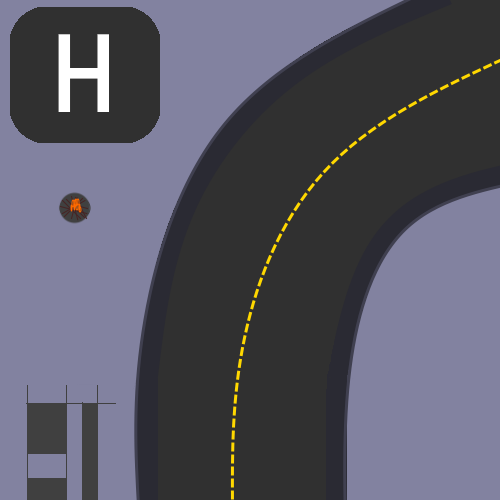
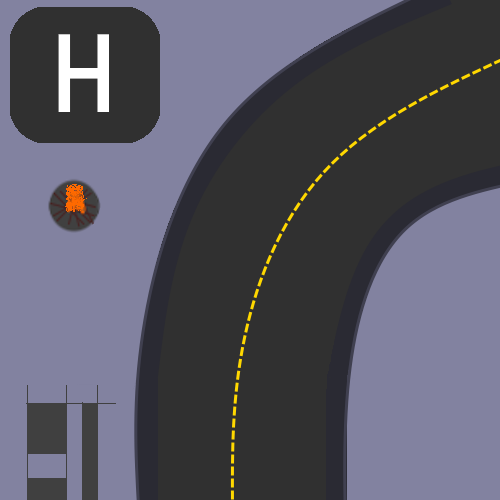
Added Player Damage and GameObject which damages player

Changed region(s): [[0.09, 0.36, 0.21, 0.48]]

diff --git a/Game.cpp b/Game.cpp
@@ -6,6 +6,7 @@
 #include "Player.hpp"
 #include "Level.hpp"
 
+int HP = 100;
 int Level::LevelIDCounter = 0;
 
 // if level 0, then
@@ -36,7 +37,7 @@ void Game::PauseMenu(SDL_Renderer* renderer) {
         return;  // Exit the function if font fails to load
     }
     else {
-        std::cout << "Font loaded successfully!" << std::endl;
+        std::cout << "Game Paused!" << std::endl;
     }
 
     bool pauseloop = true;
@@ -93,7 +94,7 @@ void Game::UserInput(bool& running, const Uint8* keyboardState) {
 
     CollisionChecker(LevelNum, playerY, playerX, playerWidth, playerHeight, blockBottom, blockTop, blockRight, blockLeft);
     
-
+    // for instance, it would be level[i]->LEFT_BOUNDARY
     if (keyboardState[SDL_SCANCODE_LEFT]) {
         if (!blockLeft && playerX > LEFT_BOUNDARY) { 
             PlayerMove(-1, 0); // Move left
@@ -123,20 +124,62 @@ void Game::UserInput(bool& running, const Uint8* keyboardState) {
     }
 }
 
-void Game::ChangeLevel(SDL_Renderer* renderer, int& LevelID) {
-    const int ObjectX = 10, ObjectY = 150, ObjectWidth = 100, ObjectHeight = 100;
-        if (Players[0]->GetY() == -90) {
-            if (!MakeLevel("LevelTwo", "Images/Grass.png", LevelID)) {
-                std::cerr << "Couldn't create Level one!" << std::endl;
-                return;
+// this function will check if the player is being damaged, as well as other effects
+void Game::CheckPlayerStatus(int& LevelID) {
+    static int OldTime = 0;  
+    int cooldown = 500;
+    int NewTime = SDL_GetTicks();
+
+    int PlayerX = Players[0]->GetX(), PlayerY = Players[0]->GetY();
+    int PlayerWidth = Players[0]->GetPlayerWidth(), PlayerHeight = Players[0]->GetPlayerHeight();
+
+    if (NewTime - OldTime > cooldown) {
+        for (int i = 0; i < Levels[LevelID]->GetGameObjectsCount(); ++i) {
+            bool objectcandamage = Levels[LevelID]->GetGameObject(i)->GetCanDamage();
+
+            int ObjectX = Levels[LevelID]->GetGameObject(i)->GetX();
+            int ObjectY = Levels[LevelID]->GetGameObject(i)->GetY();
+            int ObjectWidth = Levels[LevelID]->GetGameObject(i)->GetGameObjectWidth();
+
+            if (objectcandamage &&
+                PlayerY + PlayerHeight - 60 == ObjectY &&
+                PlayerX + PlayerWidth >= ObjectX &&
+                PlayerX <= ObjectX + ObjectWidth) {
+
+                Players[0]->DamagePlayer(10);
+                OldTime = NewTime;  
+                break;  
             }
-            if (!Levels[LevelID]->MakeGameObject(ObjectX, ObjectY, ObjectWidth, ObjectHeight, false)) {
-                std::cerr << "Couldn't create Game Object!" << std::endl;
-                return;
-            }
-            PlayerMove(0, 500); // resets spawn point to bottom of map
+        }
+    }
+
+    if (Players[0]->GetHP() <= 0) {
+        std::cout << "GAME OVER!" << std::endl;
+        exit(1);
+    }
+}
+
+void Game::ChangeLevel(int& LevelID) {
+        if (LevelID == 0 && Players[0]->GetY() == -90) {
+            Level2(LevelID);
         }
     return;
+}
+
+
+void Game::Level2(int& LevelID) { // loads assets for level 2
+    ObjectProperties Fire = { 10, 150, 100, 100 };
+
+    if (!MakeLevel("LevelTwo", "Images/Grass.png", LevelID)) {
+        std::cerr << "Couldn't create Level two!" << std::endl;
+        return;
+    }
+    if (!Levels[LevelID]->MakeGameObject(Fire.ObjectX, Fire.ObjectY, Fire.ObjectWidth, 
+        Fire.ObjectHeight, false, true, false)) {
+        std::cerr << "Couldn't create Game Object!" << std::endl;
+        return;
+    }
+    PlayerMove(0, 300); // resets spawn point to bottom of map
 }
 
 void Game::PlayerMove(int x, int y) {
@@ -190,7 +233,7 @@ size_t Game::GetLevelsCount() const {
 }
 
 bool Game::LoadAssets(SDL_Renderer* renderer, int& LevelID) {
-    const int PLAYERSTARTX = 190, PLAYERSTARTY = 390, PLAYERSPEED = 1;
+    const int PLAYERSTARTX = 190, PLAYERSTARTY = 390, PLAYERSPEED = 2;
     const int ObjectX = -10, ObjectY = -100, ObjectWidth = 100, ObjectHeight = 100;
 
     if (!MakePlayer("Ethan", PLAYERSTARTX, PLAYERSTARTY, "Images/PlayerDown.png", PLAYERSPEED)) {
@@ -204,12 +247,12 @@ bool Game::LoadAssets(SDL_Renderer* renderer, int& LevelID) {
         return false;
     }
 
-    if (!Levels[0]->MakeGameObject(ObjectX, ObjectY, ObjectWidth, ObjectHeight, true)) {
+    if (!Levels[0]->MakeGameObject(ObjectX, ObjectY, ObjectWidth, ObjectHeight, true, false, false)) {
         std::cerr << "Couldn't create Game Object!" << std::endl;
         return false;
     }
 
-    if (!Levels[0]->MakeGameObject(400, ObjectY, ObjectWidth, ObjectHeight, true)) {
+    if (!Levels[0]->MakeGameObject(400, ObjectY, ObjectWidth, ObjectHeight, true, false, false)) {
         std::cerr << "Couldn't create Game Object!" << std::endl;
         return false;
     }

diff --git a/GameObject.hpp b/GameObject.hpp
@@ -9,18 +9,47 @@ private:
 	SDL_Rect rect;
 	int X, Y, WIDTH, HEIGHT;
 	bool CanCollide;
+	bool CanDamage;
+	bool CanCollect;
 public:
 
-	GameObject(int x, int y, int width, int height, bool cancollide) : X(x), Y(y), WIDTH(width), 
-		HEIGHT(height), CanCollide(cancollide)
+	GameObject(int x, int y, int width, int height, bool cancollide, bool candamage, bool cancollect)
+		: X(x), Y(y), WIDTH(width), HEIGHT(height), CanCollide(cancollide), CanDamage(candamage), 
+		CanCollect(cancollect)
 	{
 		rect = { X, Y, WIDTH, HEIGHT };
 	}
 
 
+
 	void RenderGameObject(SDL_Renderer* renderer) {
-		SDL_SetRenderDrawColor(renderer, 0, 0, 0, 255); // RGB
+		SDL_SetRenderDrawBlendMode(renderer, SDL_BLENDMODE_BLEND);
+		SDL_SetRenderDrawColor(renderer, 0, 0, 0, 0); // RGB
 		SDL_RenderFillRect(renderer, &rect);
+	}
+
+	bool GetCanDamage() { // getters
+		return this->CanDamage;
+	}
+
+	bool GetCanCollect() {
+		return this->CanCollect;
+	}
+
+	int GetX() {
+		return this->X;
+	}
+
+	int GetY(){
+		return this->Y;
+	}
+
+	int GetGameObjectWidth() {
+		return this->WIDTH;
+	}
+
+	int GetGameObjectHeight() {
+		return this->HEIGHT;
 	}
 
 	bool CheckCollidable() {
@@ -32,9 +61,6 @@ public:
 		}
 	}
 
-
-	// TODO: set 4 ranges, currently using PlayerY and PlayerX to decide Player point of collision
-	// needs to be ranges though so that way, all sides of rect will execute code on impact
 	std::string CheckBoundary(int PlayerY, int PlayerX, int PlayerWidth, int PlayerHeight) {
 
 		if (PlayerY + PlayerHeight == Y && PlayerX + PlayerWidth >= X && PlayerX <= X + WIDTH) { // TOP

diff --git a/Game.hpp b/Game.hpp
@@ -19,7 +19,7 @@ public:
 	bool LoadAssets(SDL_Renderer* renderer, int& LevelID);
 	bool MakePlayer(std::string name, int posx, int posy, const char* imagepath, int speed);
 	bool MakeLevel(std::string levelname, const char* backgroundimagepath, int& LevelID);
-	void ChangeLevel(SDL_Renderer* renderer, int& LevelID);
+	void ChangeLevel(int& LevelID);
 	void UserInput(bool& running, const Uint8* keyboardState);
 	void HandleEvents(SDL_Event& e, bool& running, SDL_Renderer* renderer);
 	std::shared_ptr<Player> GetPlayer(int i);
@@ -28,6 +28,15 @@ public:
 	void PlayerMove(int x, int y);
 	void CollisionChecker(int levelnum, int playerY, int playerX, int playerWidth, int playerHeight,
 	bool& blockBottom, bool& blockTop, bool& blockRight, bool& blockLeft);
+	void CheckPlayerStatus(int& LevelID);
+	void Level2(int& LevelID);
 
+};
+
+struct ObjectProperties {
+	int ObjectX;
+	int ObjectY;
+	int ObjectWidth;
+	int ObjectHeight;
 };
 #endif

diff --git a/Level.cpp b/Level.cpp
@@ -35,12 +35,15 @@ size_t Level::GetGameObjectsCount() const {
 	return GameObjects.size();
 }
 
-bool Level::MakeGameObject(int x, int y, int width, int height, bool cancollide) {
+bool Level::MakeGameObject(int x, int y, int width, int height, bool cancollide,
+	bool candamage, bool cancollect) {
 	try {
-		auto object = std::make_shared<GameObject>(x, y, width, height, cancollide);
-		GameObjects.push_back(std::move(object));
+		auto object = std::make_shared<GameObject>(x, y, width, height, cancollide, candamage, 
+		cancollect);
+		GameObjects.push_back(object);
 		return true;
 	}
+
 	catch (const std::exception& e) {
 		std::cerr << "Cannot make new object: " << e.what() << std::endl;
 		return false;

diff --git a/GameEngine.cpp b/GameEngine.cpp
@@ -56,13 +56,14 @@ void GameEngine::GameLoop() {
     while (running) {
         game->HandleEvents(e, running, renderer);
         game->UserInput(running, keyboardState);
+        game->CheckPlayerStatus(LevelID);
 
         // CheckLevelID(); uncomment when debugging
 
         SDL_RenderClear(renderer);
         game->GetLevel(LevelID)->RenderLevel(renderer);
         game->GetPlayer(0)->RenderPlayer(renderer); 
-        game->ChangeLevel(renderer, LevelID);
+        game->ChangeLevel(LevelID);
         SDL_RenderPresent(renderer);
     }
 }

diff --git a/Level.hpp b/Level.hpp
@@ -4,6 +4,7 @@
 #include <SDL.h>
 #include <SDL_image.h>
 #include <vector>
+#include <memory>
 #include "GameObject.hpp"
 
 class Level {
@@ -24,7 +25,8 @@ public:
 
     size_t GetGameObjectsCount() const;
     void RenderLevel(SDL_Renderer* renderer);
-    bool MakeGameObject(int x, int y, int width, int height, bool cancollide);
+    bool MakeGameObject(int x, int y, int width, int height, bool cancollide,
+    bool candamage, bool cancollect);
     std::shared_ptr<GameObject> GetGameObject(int i);
     int GetInstanceID() const; 
 };

diff --git a/Player.cpp b/Player.cpp
@@ -1,8 +1,14 @@
 #include <iostream>
 #include "Player.hpp"
 
+
+
 int Player::GetX() {
 	return this->PosX;
+}
+
+int Player::GetHP() {
+	return this->HP;
 }
 
 int Player::GetY() {
@@ -24,6 +30,11 @@ void Player::Move(int changeX, int changeY) {
 
 void Player::SetDirectionGraphic(int direction) {
 	this->DIRECTION = direction;
+}
+
+void Player::DamagePlayer(int damage) {
+	this->HP -= damage;
+	std::cout << "Player HP: " << this->HP << std::endl;
 }
 
 void Player::RenderPlayer(SDL_Renderer* renderer) {

diff --git a/Player.hpp b/Player.hpp
@@ -24,10 +24,12 @@ public:
 	}
 	int GetX();
 	int GetY();
+	int GetHP();
 	int GetPlayerWidth();
 	int GetPlayerHeight();
 	void RenderPlayer(SDL_Renderer* renderer);
 	void SetDirectionGraphic(int direction);
 	void Move(int changeX, int changeY);
+	void DamagePlayer(int damage);
 };
 #endif
